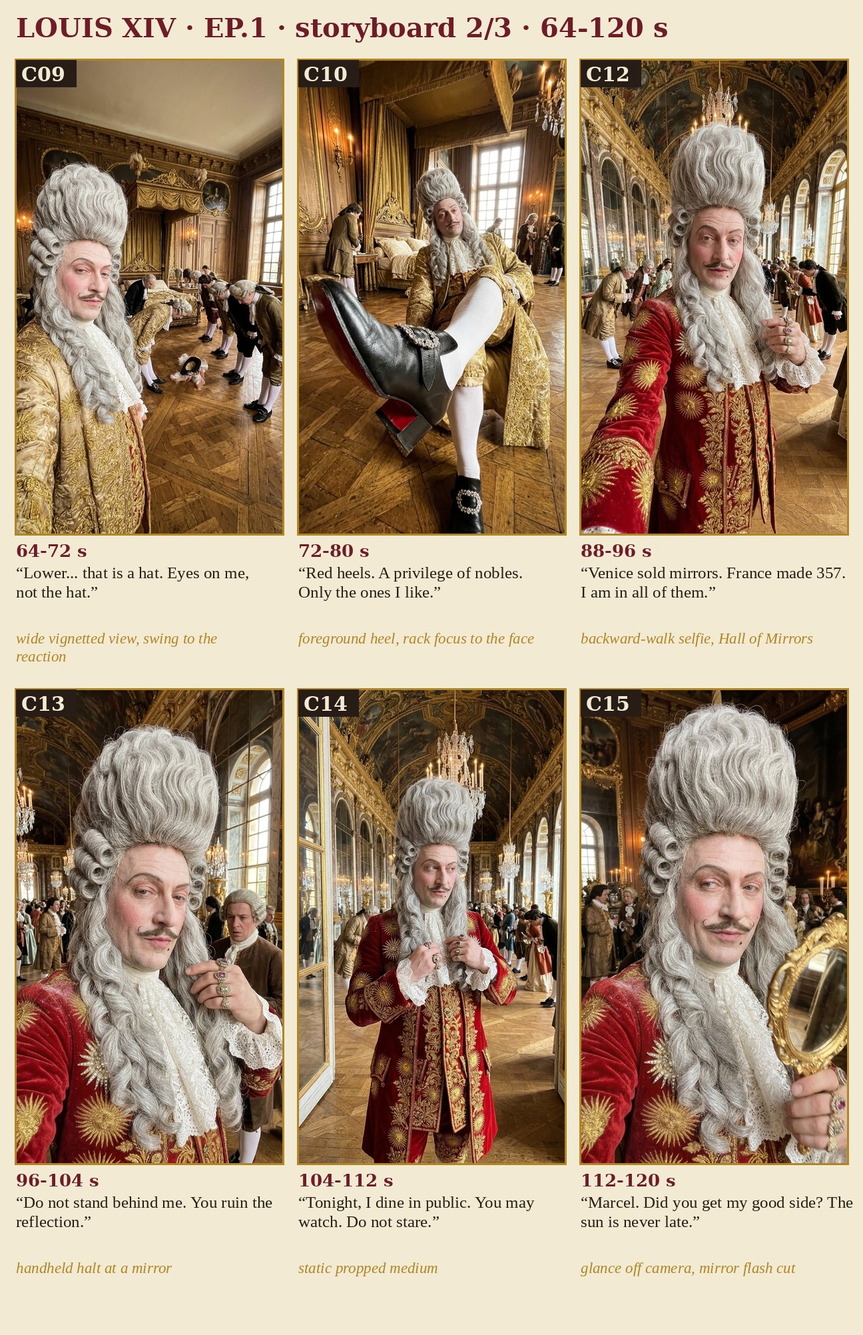
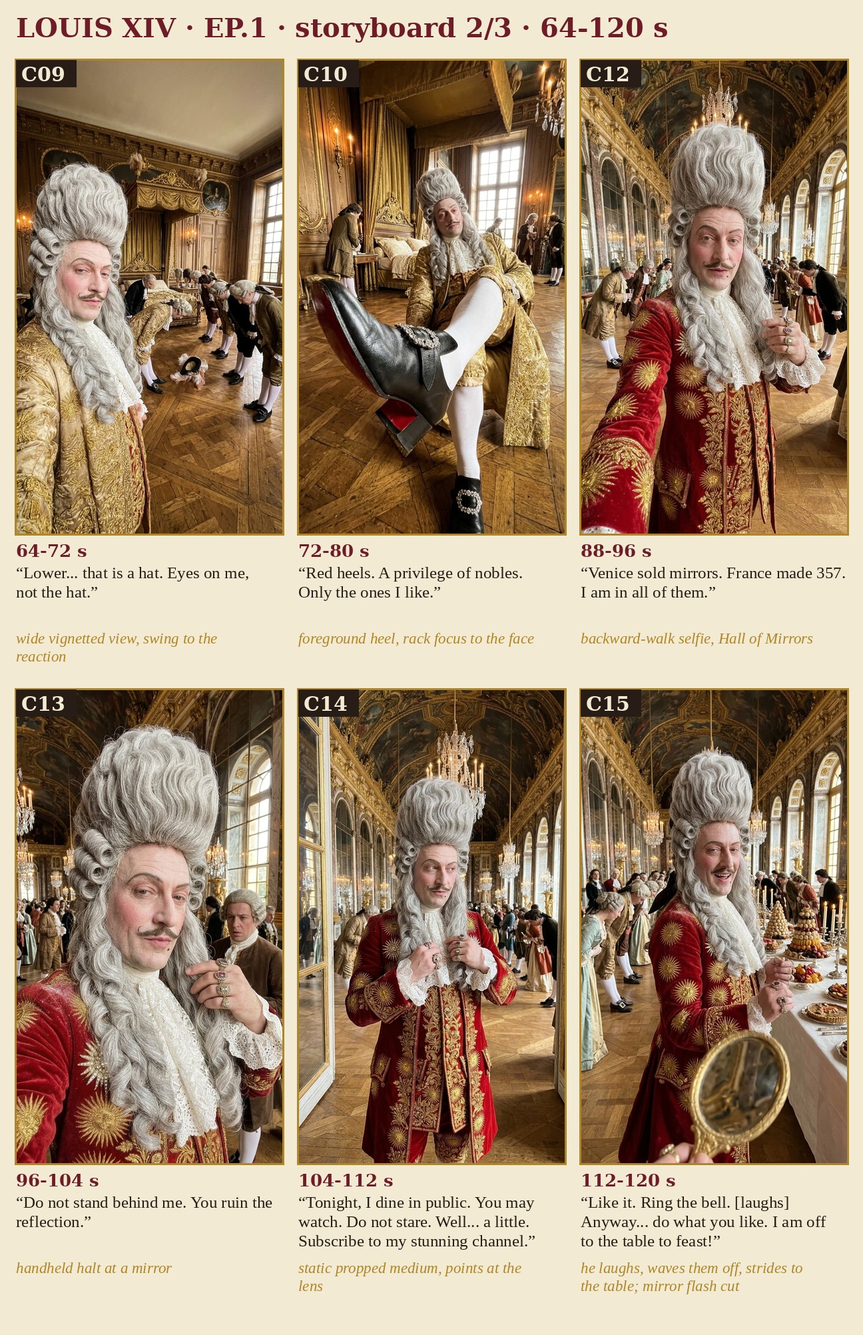
Louis XIV: CTA-and-feast ending as the series outro; script, bible, emotion map, lines, C15 frame and storyboard updated
Claude-Session: https://claude.ai/code/session_01KcWrBtThWhQ2oQ8XkNDupx

Changed region(s): [[0.6481, 0.495, 0.9877, 0.99], [0.4938, 0.9281, 0.6173, 0.9591]]

diff --git a/map_shorts/history_channel/louis_ep1/frames_louis.py b/map_shorts/history_channel/louis_ep1/frames_louis.py
@@ -20,7 +20,7 @@ F = {
  "C12": (["A3_white_wig.jpg", "C2_full.jpg"], CH + "Backward-walk selfie view in the Hall of Mirrors: the king in the scarlet velvet coat embroidered with gold suns strides toward the lens, mirrors on the left, arched windows on the right, chandeliers, courtiers trailing behind him."),
  "C13": (["A3_white_wig.jpg", "C2_full.jpg"], CH + "The king in the scarlet gold-sun coat has stopped in front of a tall mirror panel in the Hall of Mirrors, arranging a curl, seen from the front; behind him a courtier edges past with an annoyed look."),
  "C14": (["A3_white_wig.jpg", "C2_full.jpg"], CH + "Static eye-level propped medium shot at the threshold of the Hall of Mirrors: the king in the scarlet gold-sun coat straightens a curl and glances sideways at someone off camera, mirrors and chandeliers behind him."),
- "C15": (["A3_white_wig.jpg", "C2_full.jpg"], CH + "Same framing as the previous frame, the king glancing off camera to the left with a smug look, a gilded hand mirror swinging up into the bottom-right of the frame with a flash of light."),
+ "C15": (["A3_white_wig.jpg", "C2_full.jpg"], CH + "The king in the scarlet gold-sun coat laughing with delight, half turned away from the lens and looking back over his shoulder with a smug smirk, striding toward a long banquet table in the Hall of Mirrors laden with marzipan towers, tarts, candied fruit and candles, courtiers bowing along the way; documentary phone-camera look, a gilded hand mirror swinging up at the bottom edge of the frame."),
  "B1": (["C2_full.jpg"], "Macro documentary shot: a black buckled shoe with a bright scarlet red heel and a diamond buckle on polished parquet, wide-angle phone look, motion blur at one edge."),
  "B2": (["A3_white_wig.jpg"], "Macro documentary shot: a hand with a large jewelled ring on every finger (rubies and diamonds) holding a lace cuff, wide-angle phone look."),
  "B3": (["A3_white_wig.jpg"], "Macro documentary shot: a powder puff releasing a cloud of white powder in window light, wide-angle phone look."),

diff --git a/map_shorts/history_channel/louis_ep1/make_storyboard.py b/map_shorts/history_channel/louis_ep1/make_storyboard.py
@@ -14,8 +14,8 @@ cap={
 "C10":("72-80 s","Red heels. A privilege of nobles. Only the ones I like.","foreground heel, rack focus to the face"),
 "C12":("88-96 s","Venice sold mirrors. France made 357. I am in all of them.","backward-walk selfie, Hall of Mirrors"),
 "C13":("96-104 s","Do not stand behind me. You ruin the reflection.","handheld halt at a mirror"),
-"C14":("104-112 s","Tonight, I dine in public. You may watch. Do not stare.","static propped medium"),
-"C15":("112-120 s","Marcel. Did you get my good side? The sun is never late.","glance off camera, mirror flash cut"),
+"C14":("104-112 s","Tonight, I dine in public. You may watch. Do not stare. Well... a little. Subscribe to my stunning channel.","static propped medium, points at the lens"),
+"C15":("112-120 s","Like it. Ring the bell. [laughs] Anyway... do what you like. I am off to the table to feast!","he laughs, waves them off, strides to the table; mirror flash cut"),
 }
 F=lambda p,s: ImageFont.truetype(p,s)
 SB="/usr/share/fonts/truetype/dejavu/DejaVuSerif-Bold.ttf"; SR="/usr/share/fonts/truetype/liberation/LiberationSerif-Regular.ttf"; SI="/usr/share/fonts/truetype/liberation/LiberationSerif-Italic.ttf"

diff --git a/map_shorts/history_channel/louis_ep1/script_full.md b/map_shorts/history_channel/louis_ep1/script_full.md
@@ -44,10 +44,11 @@ SOUND: door latches, boots on parquet, plume brush, a small laugh from the court
 C12 (88-96) CAMERA: backward walk, the king strides toward the lens, mirrors and chandeliers left, arched windows right, courtiers trailing. LINE: "Venice sold mirrors. France made 357. I am in all of them. Lucky mirrors." CHIP: "357 MIRRORS · 1678-1684" [2S].
 C13 (96-104) CAMERA: handheld halt, the king stops in front of a mirror panel (we see his back and the lens-side face), a courtier tries to pass. LINE: "Do not stand behind me. You ruin the reflection. Ah... what a profile."
 
-### END (104-120 s), gallery threshold, propped eye-level medium, static
-C14 (104-112) ACTION: he straightens a curl, glances at the page. LINE: "Tonight, I dine in public. You may watch. Do not stare. Well... a little." [2S rule: onlookers were not allowed to stare] CHIP: "NEXT: DINNER, IN PUBLIC".
-C15 (112-120) ACTION: sideways glance off camera at 112 s. LINE: "Marcel. Did you get my good side? They are all good. [signature outro] The sun is never late." The gilded mirror swings up over the lens (flash) = cut to black.
-SOUND: a short harpsichord sting.
+### END (104-120 s), gallery threshold, then the banquet table (owner 29.10: the CTA ending)
+C14 (104-112) ACTION: he straightens a curl, glances at the page, then points at the lens. LINE: "Tonight, I dine in public. You may watch. Do not stare. Well... a little. Subscribe to my stunning channel." [2S rule: onlookers were not allowed to stare] CHIP: "NEXT: DINNER, IN PUBLIC".
+C15 (112-120) ACTION: he commands the lens, bursts into a rich delighted laugh, waves the audience away with the back of his hand, turns and strides toward a long banquet table, a courtier bows; the gilded mirror swings up over the lens as the cut. LINE: "Like it. Ring the bell. [laughs] Anyway... do what you like. I am off to the table to feast!" Final title card (text, not voiced): "THE SUN IS NEVER LATE."
+SOUND: laugh, footsteps, cutlery and a harpsichord sting; hard cut to black.
+The ending is the series OUTRO for every video (louis_series_bible.md).
 
 ## Captions and graphics
 Cream captions with a gold key word, 1-3 words, lower third, about 78 % of the frame height, 3.5 % of the height, words building up (Elizabeth's grammar, our colours). Chips in the top third (serif, coin/sun icon, source tag). AI mark top-left. No text generated by the model.
@@ -56,7 +57,7 @@ Cream captions with a gold key word, 1-3 words, lower third, about 78 % of the f
 - Pilot = C01-C04 (32 s, one take + the first clip of take 2). Cost: 4 frames $0.08 + 4 clips $0.72 = $0.80, cap $2.4.
 - Full episode: 14 Veo 3.1 fast clips (C01-C10, C12-C15) = 14 x $0.18 = $2.52, 14 start frames = $0.28, 8 burst stills = $0.16. Raw $2.96, planned with rerolls about $7, cap $9. Stop and ask beyond the cap.
 - Chained takes: each next clip starts from the last frame of the previous one (same framing, hidden seam); check hands (count, arms), the face against A2_face.jpg, no modern items, the hat physics, the heel colour.
-- Start frames: 22 storyboard frames generated and inspected 28.10 (frames/, storyboard_*.jpg); spend $0.60 of the $0.80 cap (22 first run $0.44, regens C01-C05, C10 x2, B8 $0.16). Status GENERATED + INSPECTED by us, NOT APPROVED by the owner.
+- Start frames: 22 storyboard frames generated and inspected 28.10 (frames/, storyboard_*.jpg); spend $0.62 of the $0.80 cap (22 first run $0.44, regens C01-C05, C10 x2, B8 $0.16, C15 new ending $0.02). Status GENERATED + INSPECTED by us, NOT APPROVED by the owner.
 - Gates before delivery: contact sheet per clip, mouth/voice consistency, premium_gate.py, authenticity-check audit (fiction with real history), then the owner approves.
 
 ## Open decisions

diff --git a/map_shorts/history_channel/louis_ep1/emotion_map.md b/map_shorts/history_channel/louis_ep1/emotion_map.md
@@ -1,5 +1,5 @@
 # Emotion map, ep.1 "My Morning" (owner 29.10: "use emotions, this is important")
-Rule for the whole series: the king is never flat. Every line carries a named emotion in the VOICE (tags in voice/lines_ep1_emotion.json, pace, pauses, vowel stretching, small non-verbal sounds) AND in the FACE and body of the clip prompt. Emotional arc of the episode: irritated command -> smug welcome -> proud conspiracy -> swooning self-love -> mock-tragic wound -> prophetic joke -> bored regality -> petty outrage -> flirtation with his own ankle -> showman glee -> snapped irritation then swoon -> sly generosity -> serene finality.
+Rule for the whole series: the king is never flat. Every line carries a named emotion in the VOICE (tags in voice/lines_ep1_emotion.json, pace, pauses, vowel stretching, small non-verbal sounds) AND in the FACE and body of the clip prompt. Emotional arc of the episode: irritated command -> smug welcome -> proud conspiracy -> swooning self-love -> mock-tragic wound -> prophetic joke -> bored regality -> petty outrage -> flirtation with his own ankle -> showman glee -> snapped irritation then swoon -> sly generosity -> gleeful exit to the feast.
 
 | Clip | Voice emotion (tags, delivery) | Face and body (put into the Kling/Veo prompt) | Non-verbal beat |
 |--|--|--|--|
@@ -15,8 +15,8 @@ Rule for the whole series: the king is never flat. Every line carries a named em
 | C10 | flirtatious, teasing; admiring sigh at his ankle | turns the foot like a jewel, eyebrow raised, lip bitten in admiration | admiring sigh |
 | C12 | showman grandeur, gleeful, soft laugh on "Lucky mirrors" | strides with open arms, delighted grin, glances left and right at his reflections | soft laugh |
 | C13 | snapped irritation, then swoon on "what a profile" | head snaps to the courtier, glare, then turns to the mirror and melts, hand to the cheek | breathy "Ah..." |
-| C14 | mock-generous, firm, sly conspiratorial "a little" | open palm, then a stern finger, then a wink and a tiny smile | small laugh |
-| C15 | impatient to the page, pleased lingering "all good", serene finality | glances off camera, brow arched, then a calm half-smile into the lens | none, held silence before the last line |
+| C14 | mock-generous, firm "Do not stare", sly conspiratorial "a little", then imperious "Subscribe to my stunning channel" | open palm, stern finger, a wink and a tiny smile, then a regal point at the lens | small laugh |
+| C15 | imperious commands ("Like it. Ring the bell."), a rich delighted villainous laugh, dismissive boredom ("do what you like"), gleeful hunger ("off to the table to feast") | commands with a finger, head thrown back laughing, waves the audience away with the back of the hand, turns and strides to the table with a look back over his shoulder | the laugh itself, footsteps, cutlery |
 
 ## Voice rules for emotion
 - Stability: Natural (0.5) is the safe default; Creative (0.0) gives the tags more effect but can hallucinate. Test both on C01-C05, pick one, lock it. (Lumean accepts only multiples of 0.5.)

diff --git a/map_shorts/history_channel/louis_series_bible.md b/map_shorts/history_channel/louis_series_bible.md
@@ -1,12 +1,13 @@
 # Louis XIV series bible: signature phrases and self-praise rule (owner 28.10.2026)
-Rule: every video STARTS with the same signature opener, ENDS with the same signature outro, and all the way through the king admires himself ("what a handsome man I am"). One TTS voice for all lines (see channels.md section 2b). English lines, nasty, arrogant, haughty; ElevenLabs v3 tags per line: [smug], [haughty], [admiringly], [sneering].
+Rule: every video STARTS with the same signature opener, ENDS with the same signature outro (the CTA-and-feast ending), and all the way through the king admires himself ("what a handsome man I am"). One TTS voice for all lines (see channels.md section 2b). English lines, nasty, arrogant, haughty; ElevenLabs v3 tags per line: [smug], [haughty], [admiringly], [sneering].
 
 ## Signature opener (fixed text, first 6-7 s of EVERY video, right after "Marcel, down!" in ep.1)
 "Bow. Lower. Good. Welcome to Versailles. Yes, I am that handsome. Try not to faint."
 (The words "Bow. Lower. Good." come back as a call-back in the bowing scene of every episode.)
 
-## Signature outro (fixed, last line of EVERY video)
-"The sun is never late." (after the next-episode tease)
+## Signature outro (fixed text, last ~16 s of EVERY video; owner 29.10)
+"Subscribe to my stunning channel. Like it. Ring the bell. [laughs] Anyway... do what you like. I am off to the table to feast!"
+He commands the audience, laughs, waves them off and walks away to a banquet table (mirror flash = cut). The title card "THE SUN IS NEVER LATE." is the on-screen sign-off (not voiced; the voiced "The sun is never late." is retired from the outro and may appear as a line inside an episode).
 
 ## Self-praise lines (the "what a handsome man I am" tags)
 Rules: one tag every 15-20 s (6 per 2 minutes), never the same line twice in one episode, 2-8 words, always straight to the lens or to the mirror, delivered smugly, never apologetic; no jokes about illness or real people's bodies other than the king's own vanity.

diff --git a/map_shorts/history_channel/voice/recording_sheet.md b/map_shorts/history_channel/voice/recording_sheet.md
@@ -11,7 +11,7 @@ Quiet room with soft furniture (a closet full of clothes works), phone 15-20 cm 
 O1 "Marcel, down!"
 O2 "Bow. Lower. Good. Welcome to Versailles. Yes, I am that handsome. Try not to faint."   (the signature opener, 6-7 s)
 O3 "Bow. Lower. Good."   (short call-back)
-Z1 "The sun is never late."   (the signature outro)
+Z1 "Subscribe to my stunning channel. Like it. Ring the bell." + (a rich delighted laugh) + "Anyway... do what you like. I am off to the table to feast!"   (the signature outro, 10 s, laugh included)
 S1 "Look at me. Magnificent." / S2 "What a face, though. Honestly." / S3 "Handsome. Again. Every single morning." / S4 "I could cry. Look at that profile." / S5 "Yes, white suits me. Everything suits me." / S6 "Only one worth looking at. Me. Obviously." / S7 "Look at that ankle." / S8 "Lucky mirrors." / S9 "Ah... what a profile." / S10 "They are all good sides." / S11 "Magnifique. Me, I mean." / S12 "I am sorry. I cannot help it." / S13 "Even my shadow is handsome." / S14 "Do not touch. Admire." / S15 "Perfection takes no effort. Mine, I mean." / S16 "Well... a little."
 
 ## B. Episode 1 "My Morning" (by clip)
@@ -27,8 +27,8 @@ C09 "Lower... that is a hat. Eyes on me, not the hat."
 C10 "Red heels. A privilege of nobles. Only the ones I like. Look at that ankle."
 C12 "Venice sold mirrors. France made 357. I am in all of them. Lucky mirrors."
 C13 "Do not stand behind me. You ruin the reflection. Ah... what a profile."
-C14 "Tonight, I dine in public. You may watch. Do not stare. Well... a little."
-C15 "Marcel. Did you get my good side? They are all good. " + Z1
+C14 "Tonight, I dine in public. You may watch. Do not stare. Well... a little. Subscribe to my stunning channel."
+C15 "Like it. Ring the bell." + laugh + "Anyway... do what you like. I am off to the table to feast!" (= Z1 without the first sentence)
 
 About 4 minutes of finished audio in total; the pack A is about 1 minute.
 
